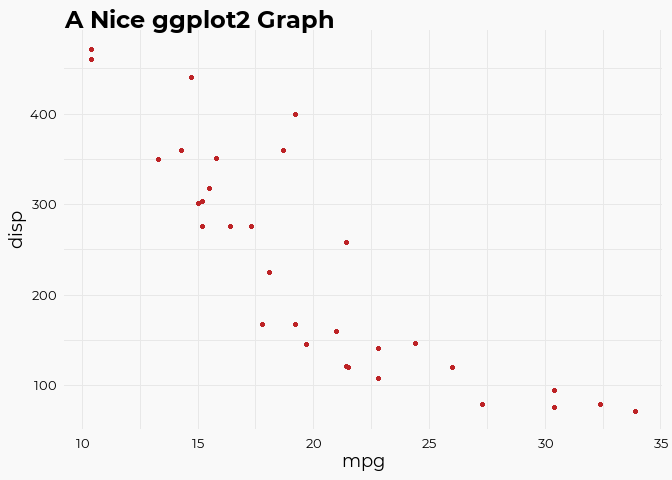
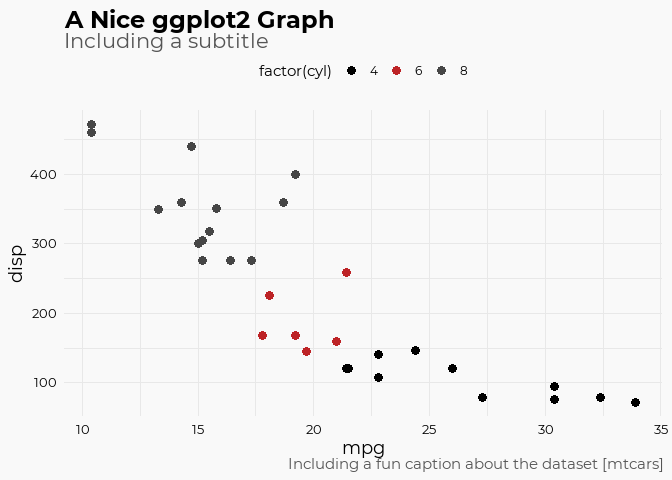
updating ggplot color functions

diff --git a/README.md b/README.md
@@ -34,11 +34,20 @@ remotes::install_github("phildwalker/TeamBrand")
 library(ggplot2)
 library(TeamBrand)
 #> Loading required namespace: sysfonts
+#> 
+#> Attaching package: 'TeamBrand'
+#> The following objects are masked from 'package:ggplot2':
+#> 
+#>     geom_bar, geom_col, geom_jitter, geom_line, geom_path, geom_point,
+#>     geom_step, geom_text
 
-ggplot(mtcars, aes(mpg, disp))+
+ggplot(mtcars, aes(mpg, disp, color = factor(cyl)))+
   geom_point()+
+  scale_color_brand(palette = "mixed")+
   labs(
-    title = "A Nice ggplot2 Graph"
+    title = "A Nice ggplot2 Graph",
+    subtitle = "Including a subtitle", 
+    caption = "Including a fun caption about the dataset [mtcars]"
   )
 ```
 
